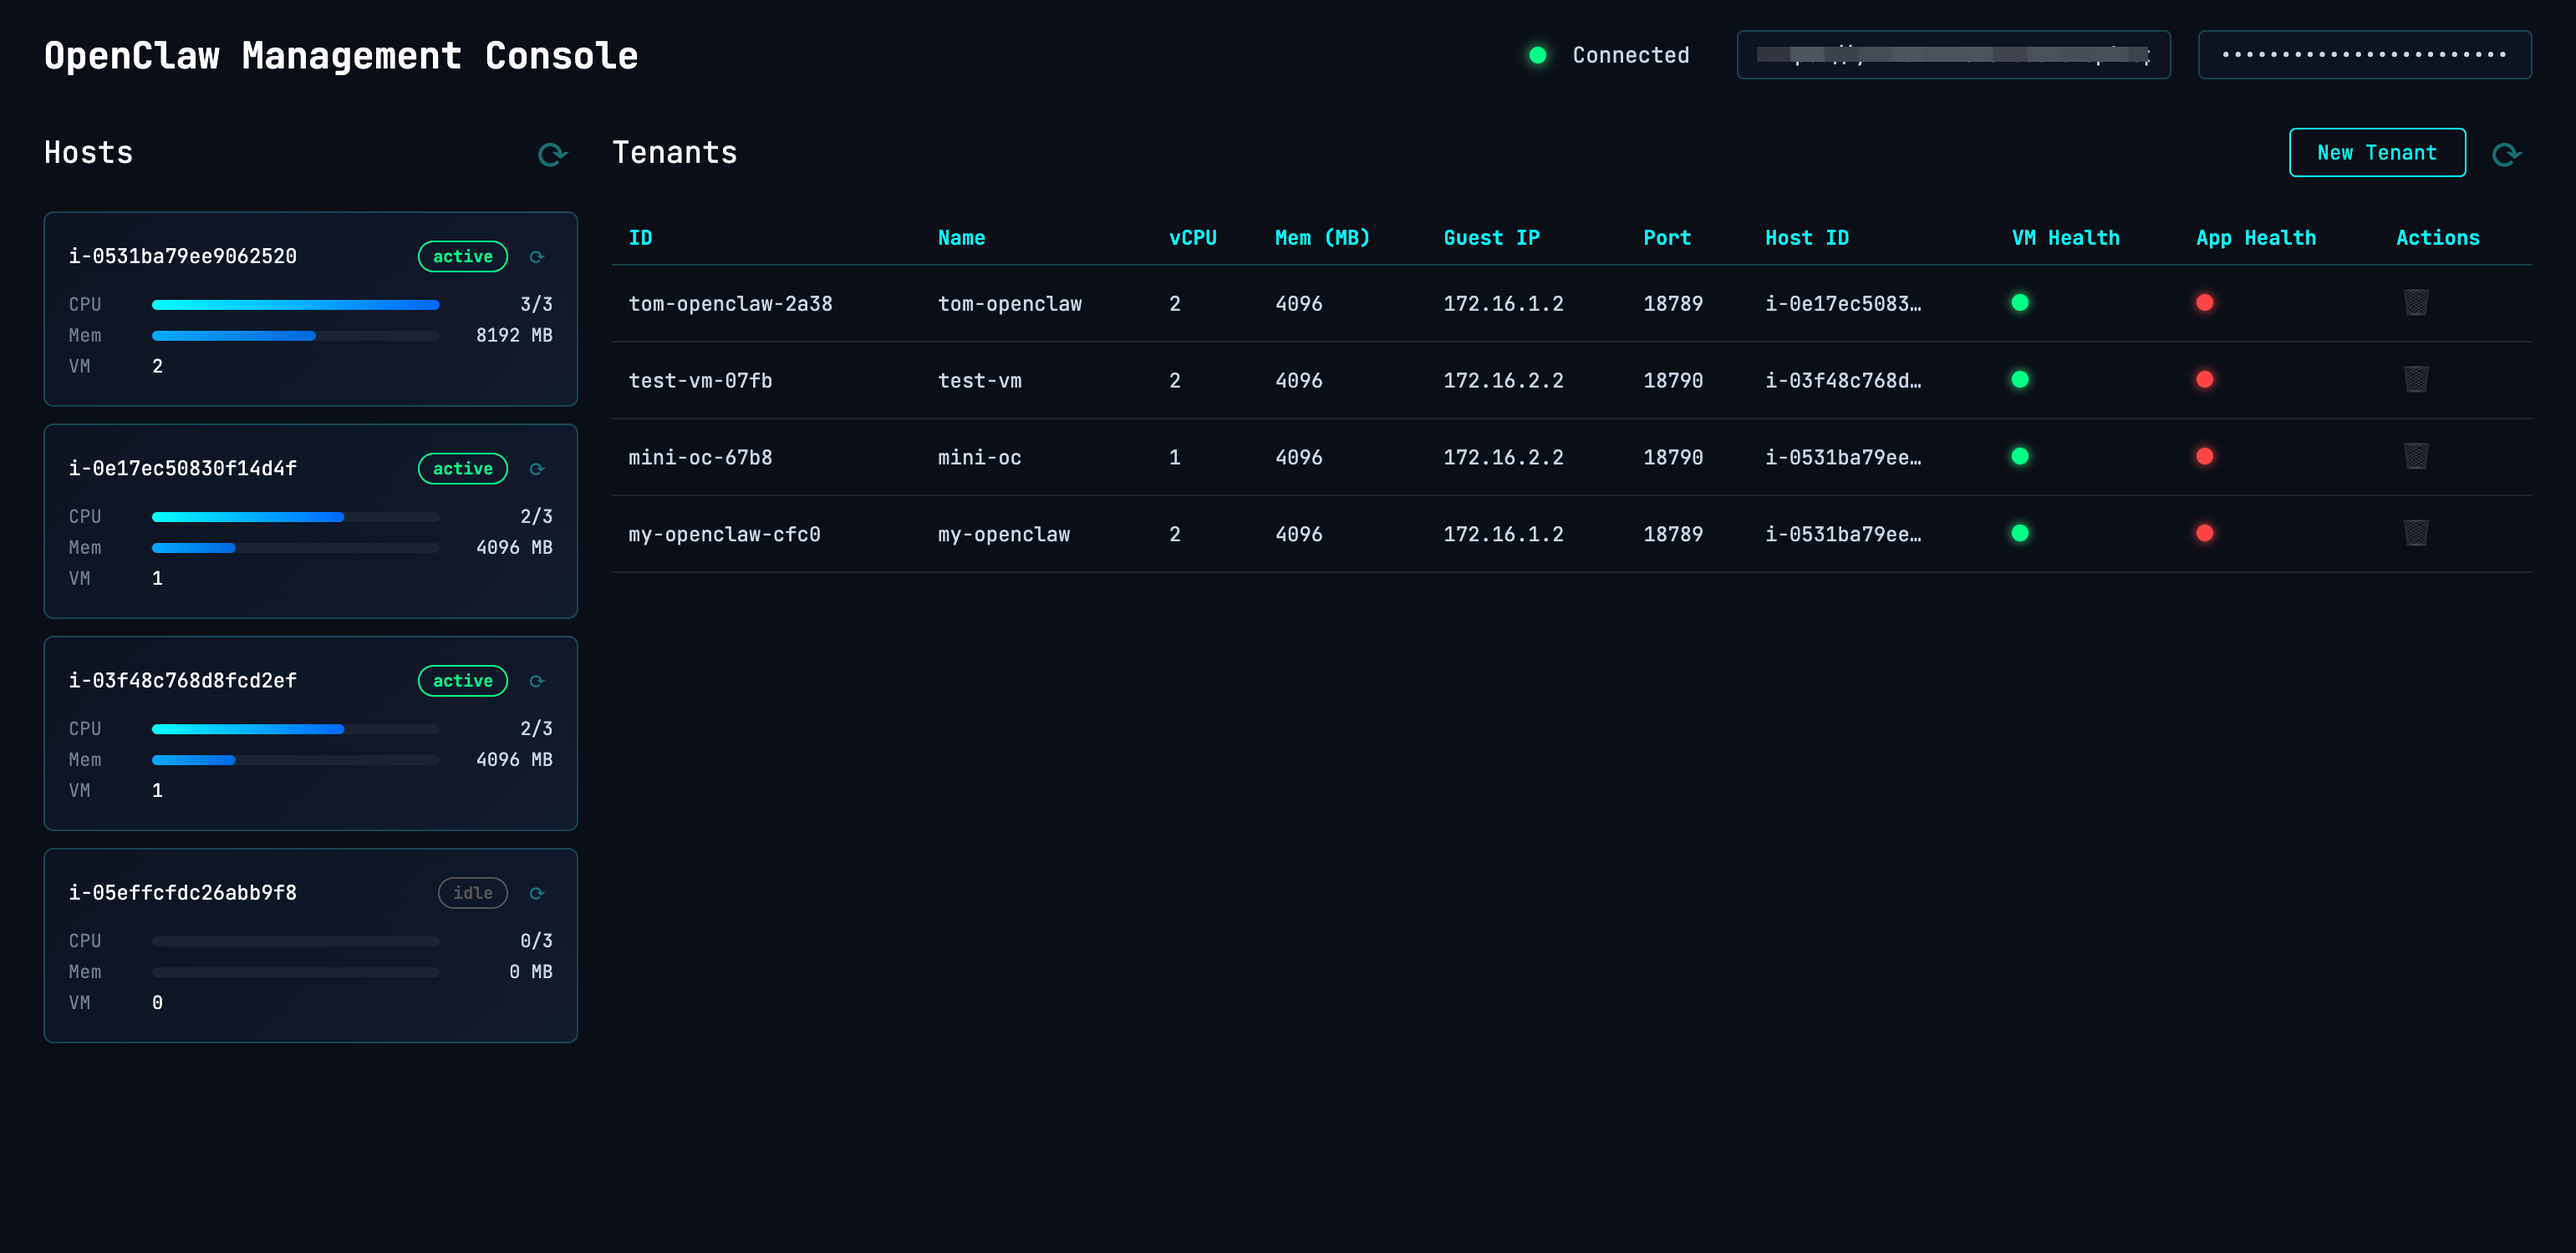
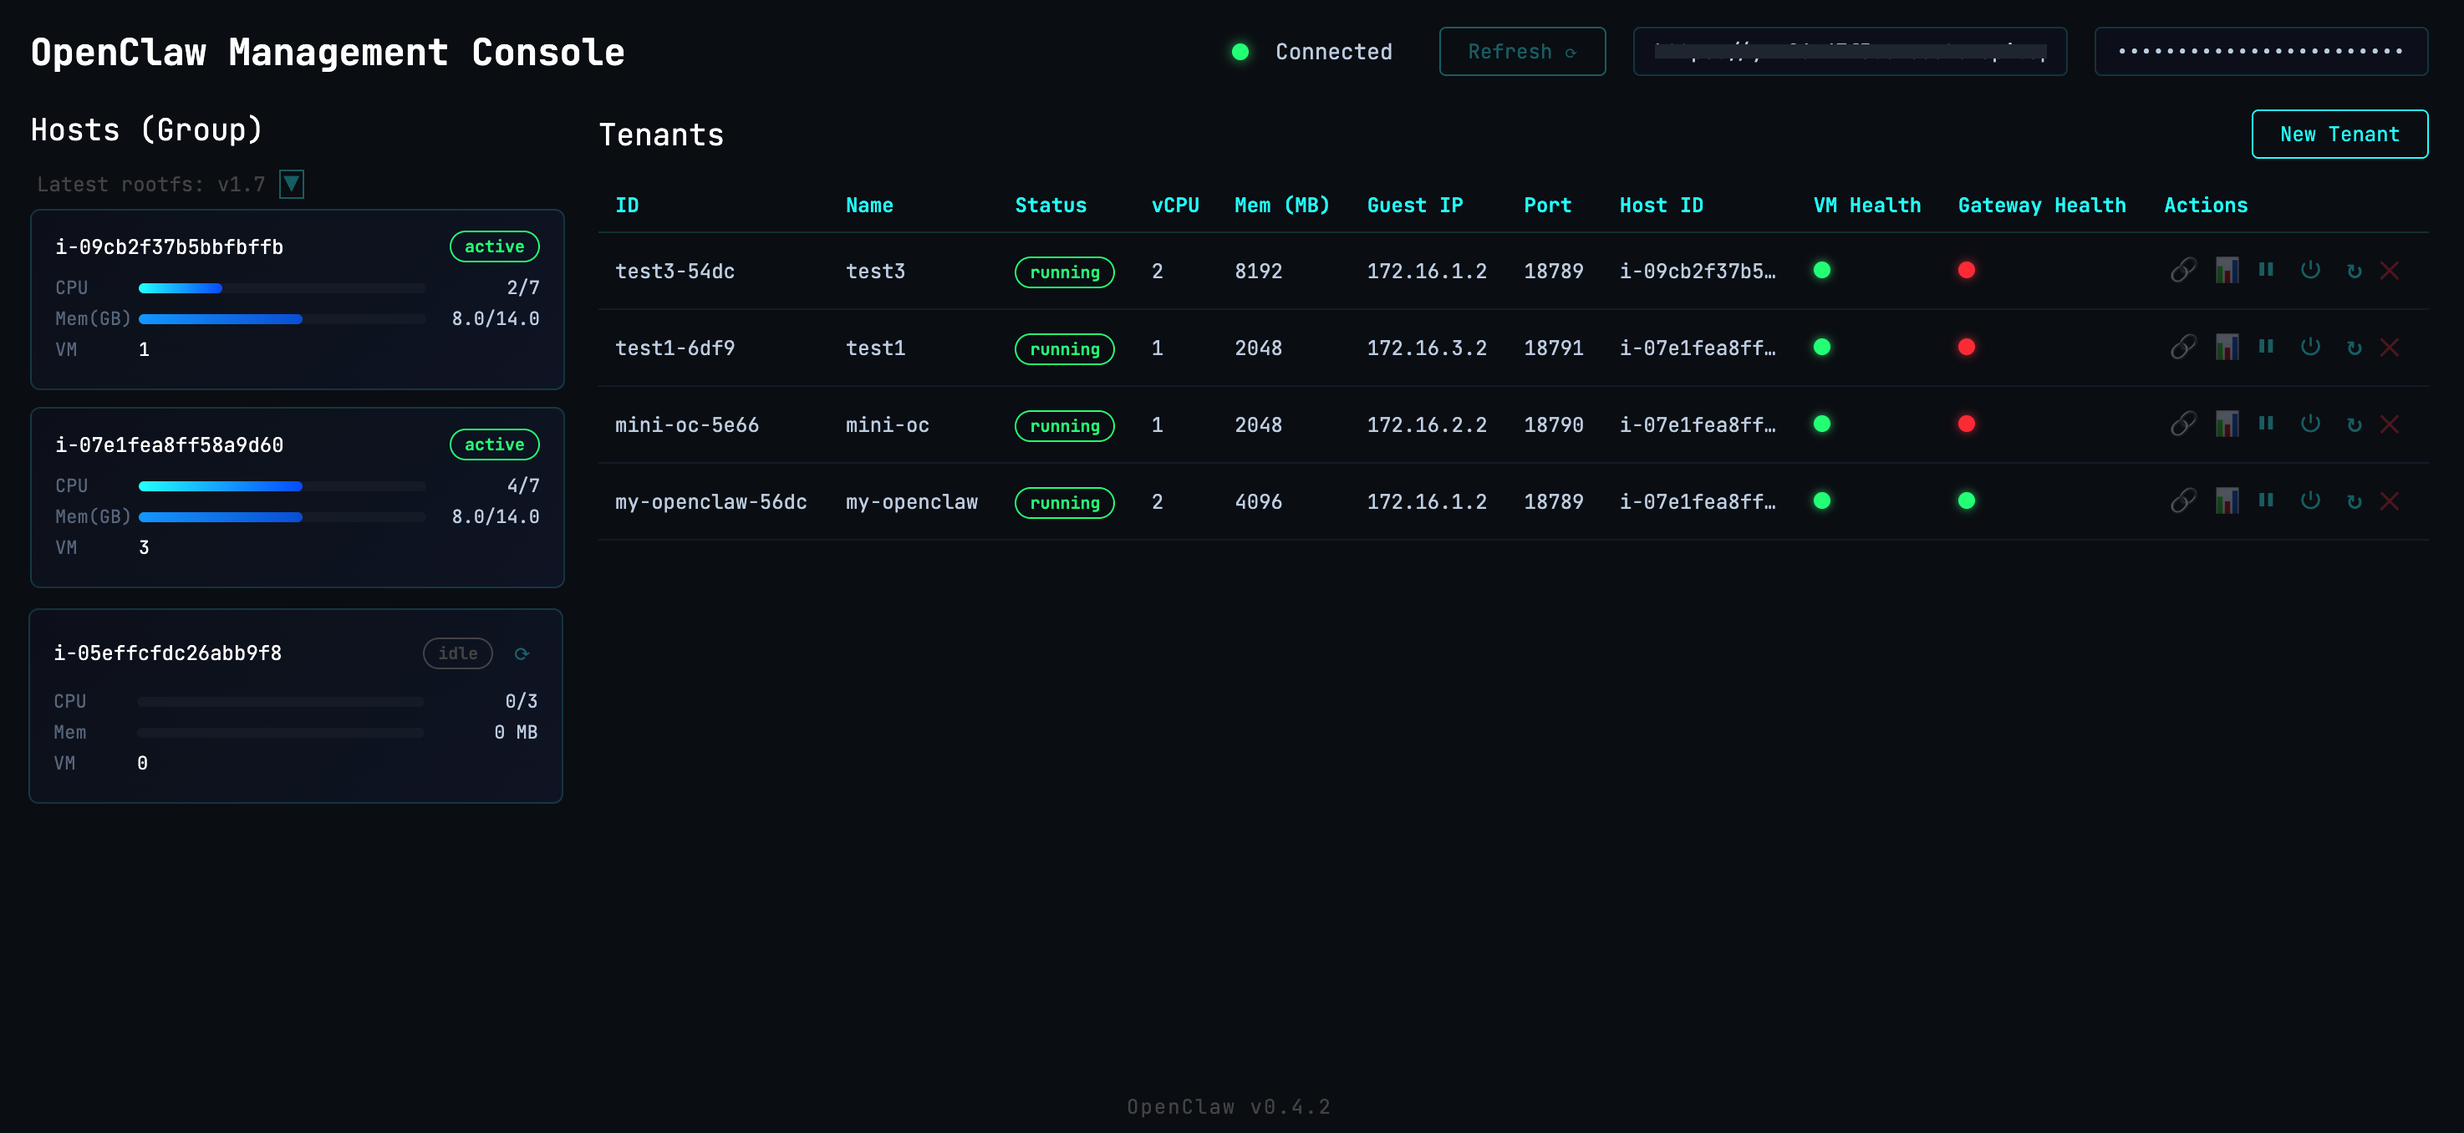
feat(build): add rootfs version tracking
- Add "Refresh Rootfs" button to pull latest rootfs to all hosts
- Improve console UI with refresh button styling and rootfs version display

diff --git a/console/index.html b/console/index.html
@@ -15,8 +15,8 @@
   <h1>OpenClaw Management Console</h1>
   <span class="status-dot" :class="connected ? 'ok' : 'err'"></span>
   <span class="status-label" x-text="connected ? 'Connected' : 'Disconnected'"></span>
-  <button class="btn-icon" @click="refresh()" style="font-size:24px;margin-left:4px">
-    <span :class="(loadingHosts||loadingTenants) && 'spin'">⟳</span>
+  <button class="btn btn-outline" @click="refresh()" :disabled="loadingHosts||loadingTenants">
+    Refresh <span :class="(loadingHosts||loadingTenants) && 'spin'">⟳</span>
   </button>
   <input type="text" x-model="apiUrl" @change="saveSettings(); refresh()" placeholder="https://api.example.com/v1/">
   <input type="password" x-model="apiKey" @change="saveSettings(); refresh()" placeholder="🔒 API Key" style="width:200px">
@@ -28,7 +28,11 @@
   <!-- Hosts -->
   <div class="hosts-panel">
     <div class="panel-header">
-      <span class="panel-title">Hosts</span>
+      <span class="panel-title">Hosts (Group)</span>
+    </div>
+    <div style="display:flex;align-items:center;gap:8px;padding:0 4px 6px;font-size:12px">
+      <span style="color:var(--gray)" x-text="'Latest rootfs: '+(rootfsVersion||'…')"></span>
+      <button class="btn-outline" title="Pull latest rootfs to all hosts" @click="refreshRootfs()"> ▼ </button>
     </div>
     <template x-if="hosts.length === 0 && !loadingHosts">
       <div class="empty">No hosts</div>
@@ -39,7 +43,6 @@
         <div class="host-top">
           <span class="host-id" x-text="h.instance_id"></span>
           <span class="badge" :class="h.status==='active' ? 'badge-active' : 'badge-inactive'" x-text="h.status"></span>
-          <button class="btn-icon" style="font-size:16px" @click="refresh()">⟳</button>
         </div>
         <div class="host-row">
           <span class="host-label">CPU</span>
@@ -97,21 +100,21 @@
                   <button class="btn-act" title="Copy oc-dashboard.sh command" @click="copyCmd('oc-dashboard.sh '+t.id)">📊</button>
                   <template x-if="t.status==='running'">
                     <span>
-                      <button class="btn-act" title="Pause" @click="tenantAction(t.id,'pause')">⏸</button>
-                      <button class="btn-act" title="Stop" @click="tenantAction(t.id,'stop')">⏹</button>
-                      <button class="btn-act" title="Restart" @click="tenantAction(t.id,'restart')">🔄</button>
+                      <button class="btn-act" title="Pause" @click="tenantAction(t.id,'pause')">⏸</button>
+                      <button class="btn-act" title="Stop" @click="tenantAction(t.id,'stop')">⏻</button>
+                      <button class="btn-act" title="Restart" @click="tenantAction(t.id,'restart')">↻</button>
                     </span>
                   </template>
                   <template x-if="t.status==='stopped'">
                     <span>
-                      <button class="btn-act" title="Start" @click="tenantAction(t.id,'start')">▶</button>
-                      <button class="btn-act" title="Reset rootfs" @click="tenantAction(t.id,'reset')">♻</button>
+                      <button class="btn-act" title="Start" @click="tenantAction(t.id,'start')">▶</button>
+                      <button class="btn-act" title="Reset rootfs" @click="tenantAction(t.id,'reset')">⟲</button>
                     </span>
                   </template>
                   <template x-if="t.status==='paused'">
-                    <button class="btn-act" title="Resume" @click="tenantAction(t.id,'resume')">▶</button>
+                    <button class="btn-act" title="Resume" @click="tenantAction(t.id,'resume')">▶</button>
                   </template>
-                  <button class="btn-del" @click="deleteTenant(t.id)">🗑</button>
+                  <button class="btn-del" @click="deleteTenant(t.id)">✕</button>
                 </div>
               </td>
             </tr>
@@ -146,7 +149,7 @@
 function app() {
   return {
     apiUrl: '', apiKey: '', connected: false, toast: '',
-    hosts: [], tenants: [], selectedHost: null,
+    hosts: [], tenants: [], selectedHost: null, rootfsVersion: '',
     loadingHosts: false, loadingTenants: false,
     showModal: false,
     form: { name: '', vcpu: null, memory_mb: null },
@@ -177,6 +180,7 @@ function app() {
       try { this.hosts = await this.api('GET', 'hosts'); this.connected = true; }
       catch { this.connected = false; }
       this.loadingHosts = false;
+      try { this.rootfsVersion = (await this.api('GET', 'hosts/rootfs-version')).version; } catch {}
     },
     async loadTenants() {
       if (!this.apiUrl || !this.apiKey) return;
@@ -207,9 +211,15 @@ function app() {
       setTimeout(() => this.toast = '', 2000);
       this.loadTenants();
     },
+    async refreshRootfs() {
+      this.toast = 'refresh-rootfs…';
+      await this.api('POST', 'hosts/refresh-rootfs');
+      this.toast = '✓ refresh-rootfs sent';
+      setTimeout(() => this.toast = '', 3000);
+    },
     copyCmd(cmd) {
       navigator.clipboard.writeText(cmd);
-      this.toast = cmd;
+      this.toast = '✓ Copied: ' + cmd;
       setTimeout(() => this.toast = '', 2000);
     },
     cpuPct(h) { return h.total_vcpu ? Math.round(h.used_vcpu / h.total_vcpu * 100) : 0; },
@@ -219,7 +229,7 @@ function app() {
   };
 }
 </script>
-<div class="toast" x-show="toast" x-transition x-text="'✓ Copied: ' + toast"></div>
+<div class="toast" x-show="toast" x-transition x-text="toast"></div>
 <footer class="footer" x-data>
   <span>OpenClaw</span> <span x-text="'v' + (window.OC_VERSION || 'dev')"></span>
 </footer>

diff --git a/console/style.css b/console/style.css
@@ -33,6 +33,8 @@ input { font-family: inherit; }
 .btn-cyan:hover { background: #0ff1; box-shadow: 0 0 12px #0ff3; }
 .btn-create { background: var(--cyan); color: var(--bg); border: none; font-weight: 700; }
 .btn-create:hover { box-shadow: 0 0 16px #0ff5; }
+.btn-outline { background: transparent; border: 1px solid var(--cyan-dim); color: var(--cyan-dim); }
+.btn-outline:hover { border-color: var(--cyan); color: var(--cyan); box-shadow: 0 0 8px #0ff2; }
 .btn-icon { background: none; border: none; color: var(--cyan-dim); cursor: pointer; font-size: 32px; padding: 4px; }
 .btn-icon:hover { color: var(--cyan); }
 .btn-del { background: none; border: none; color: #f445; cursor: pointer; font-size: 16px; padding: 4px; }

diff --git a/deploy/stack.py b/deploy/stack.py
@@ -85,6 +85,7 @@ class OpenClawOrchestratorStack(cdk.Stack):
         )
         tenants_table.grant_read_write_data(api_fn)
         hosts_table.grant_read_write_data(api_fn)
+        assets_bucket.grant_read(api_fn)
         api_fn.add_to_role_policy(ssm_policy)
         api_fn.add_to_role_policy(ec2_describe_policy)
         api_fn.add_to_role_policy(iam.PolicyStatement(
@@ -131,11 +132,14 @@ class OpenClawOrchestratorStack(cdk.Stack):
         hosts_resource.add_method("GET", apigw.LambdaIntegration(api_fn), **key_required)
         hosts_resource.add_method("POST", apigw.LambdaIntegration(api_fn), **key_required)
 
+        host_resource = hosts_resource.add_resource("{instance_id}")
+        host_resource.add_method("DELETE", apigw.LambdaIntegration(api_fn), **key_required)
+
         refresh_rootfs_resource = hosts_resource.add_resource("refresh-rootfs")
         refresh_rootfs_resource.add_method("POST", apigw.LambdaIntegration(api_fn), **key_required)
 
-        host_resource = hosts_resource.add_resource("{instance_id}")
-        host_resource.add_method("DELETE", apigw.LambdaIntegration(api_fn), **key_required)
+        rootfs_version_resource = hosts_resource.add_resource("rootfs-version")
+        rootfs_version_resource.add_method("GET", apigw.LambdaIntegration(api_fn), **key_required)
 
         # ========== Health Check Lambda ==========
         health_fn = _lambda.Function(self, "HealthCheck",

diff --git a/deploy/lambda/api/handler.py b/deploy/lambda/api/handler.py
@@ -5,6 +5,7 @@ import time
 import boto3
 
 ssm = boto3.client("ssm")
+s3 = boto3.client("s3")
 asg_client = boto3.client("autoscaling")
 ddb = boto3.resource("dynamodb")
 tenants_table = ddb.Table(os.environ["TENANTS_TABLE"])
@@ -43,6 +44,7 @@ def lambda_handler(event, context):
         ("GET", "/hosts"): list_hosts,
         ("POST", "/hosts"): lambda: register_host(json.loads(event["body"])),
         ("POST", "/hosts/refresh-rootfs"): refresh_rootfs,
+        ("GET", "/hosts/rootfs-version"): rootfs_version,
         ("DELETE", "/hosts/{instance_id}"): lambda: deregister_host(
             path_params["instance_id"]
         ),
@@ -341,6 +343,17 @@ def deregister_host(instance_id):
         print(f"Failed to terminate {instance_id}: {e}")
 
     return _resp(200, {"instance_id": instance_id, "status": "draining", "tenants_stopped": len(tenants)})
+
+
+def rootfs_version():
+    bucket = os.environ.get("ASSETS_BUCKET", "")
+    prefix = os.environ.get("ROOTFS_PREFIX", "rootfs")
+    try:
+        obj = s3.get_object(Bucket=bucket, Key=f"{prefix}/version.txt")
+        version = obj["Body"].read().decode().strip()
+    except Exception:
+        version = "unknown"
+    return _resp(200, {"version": version})
 
 
 def refresh_rootfs():

diff --git a/README.md b/README.md
@@ -1,6 +1,6 @@
 # OpenClaw on EC2 microVM
 
-![Version](https://img.shields.io/badge/version-0.4.2-blue)
+![Version](https://img.shields.io/badge/version-0.4.3-blue)
 
 基于 AWS Firecracker microVM 的 OpenClaw 多租户隔离部署方案。每个租户运行在独立的 microVM 中，通过 API 统一管理，ASG 自动扩缩宿主机，空闲主机自动回收。
 
